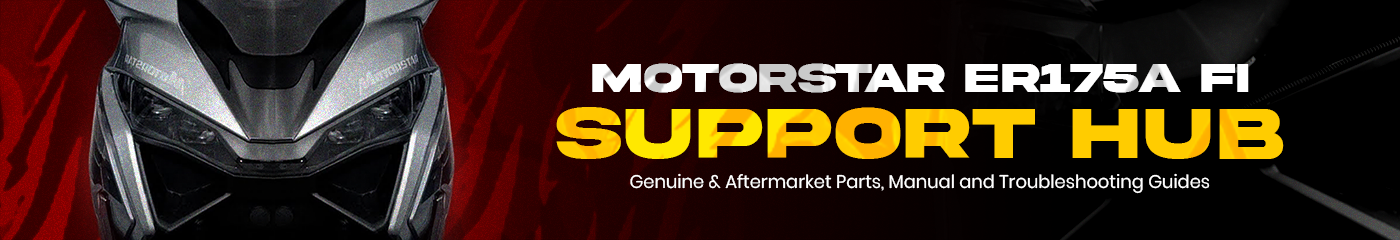
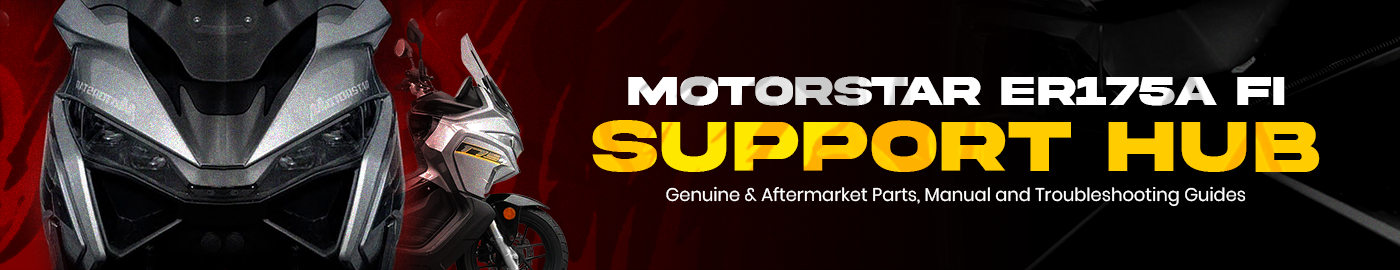
Color Adjust

diff --git a/style.css b/style.css
@@ -274,7 +274,7 @@ input#search:focus {
     gap: 6px;
     padding: 10px;
 
-    background: rgba(18, 24, 35, 0.85);
+    background: rgba(0, 0, 0, 0.85);
     backdrop-filter: blur(12px);
 }
 
@@ -294,12 +294,12 @@ input#search:focus {
 }
 
 .seg:hover {
-    background: rgba(255,255,255,0.05);
+    background: rgba(85, 11, 11, 0.595);
     color: #fff;
 }
 
 .seg.active {
-    background: var(--accent);
+    background: #7a0000;
     color: #fff;
 }
 
@@ -775,6 +775,7 @@ width:100%;
 
 .chips{
 
+    
 display:flex;
 
 align-items:center;
@@ -798,7 +799,8 @@ display:none;
 
 
 .chips button{
-
+cursor: pointer;
+transition: 0.2s ease;
 flex:none;
 
 white-space:nowrap;
@@ -884,7 +886,7 @@ flex:none;
 
     display:block;
 
-    background:#0d6efd;
+    background:#153d78;
     color:white;
 
     padding:12px 16px;